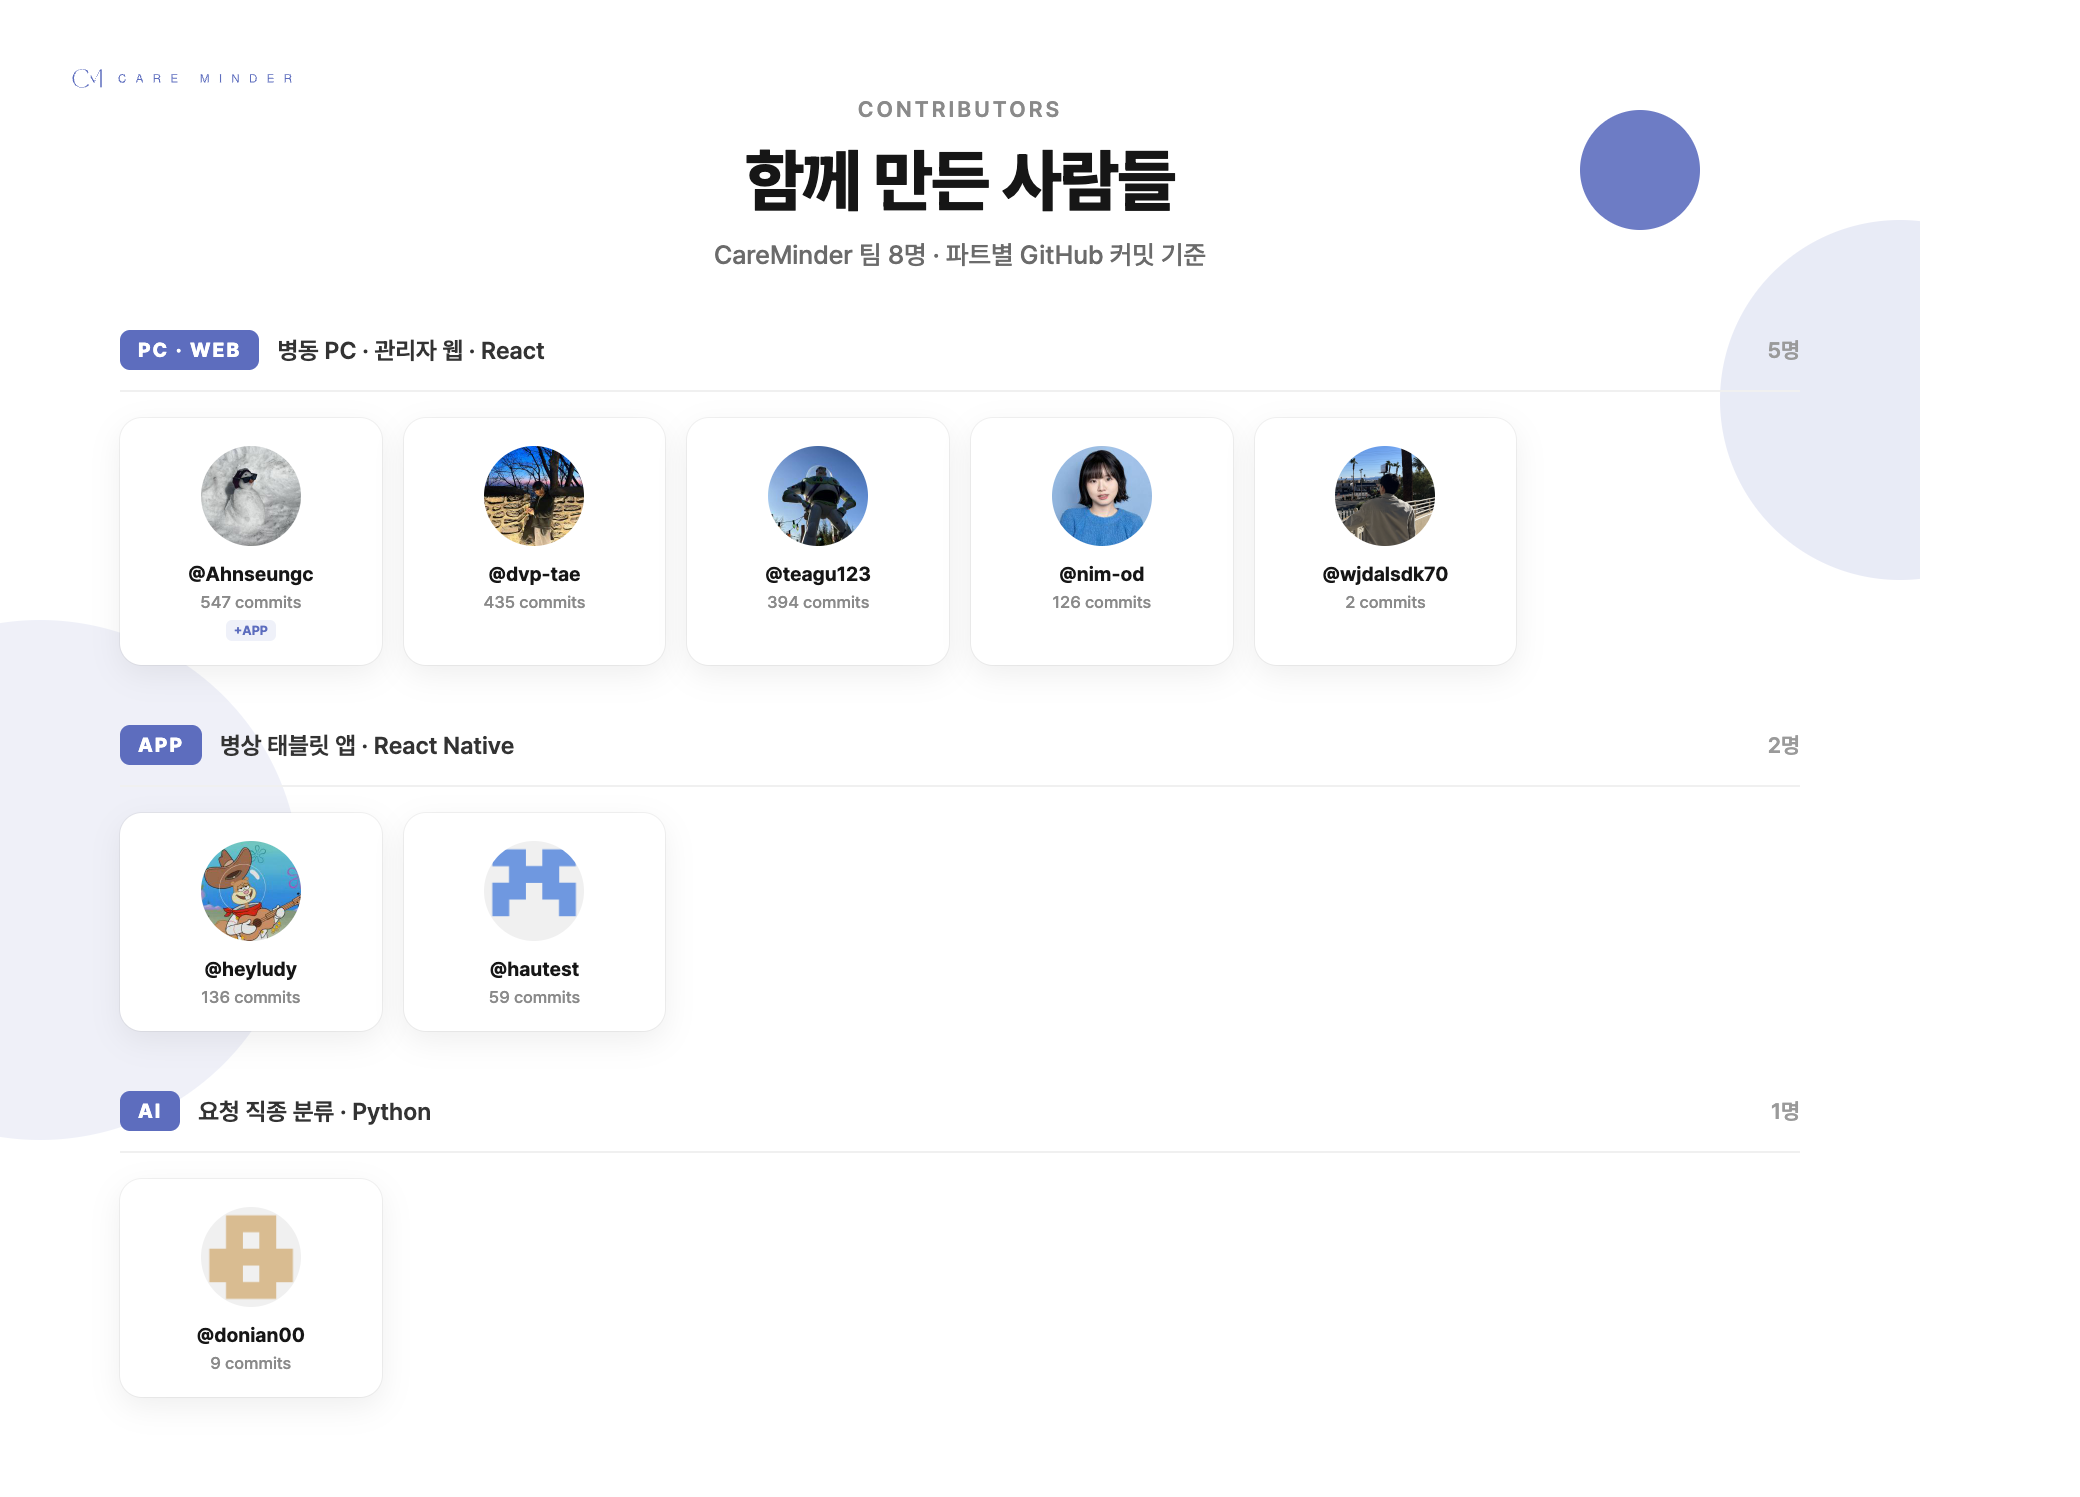
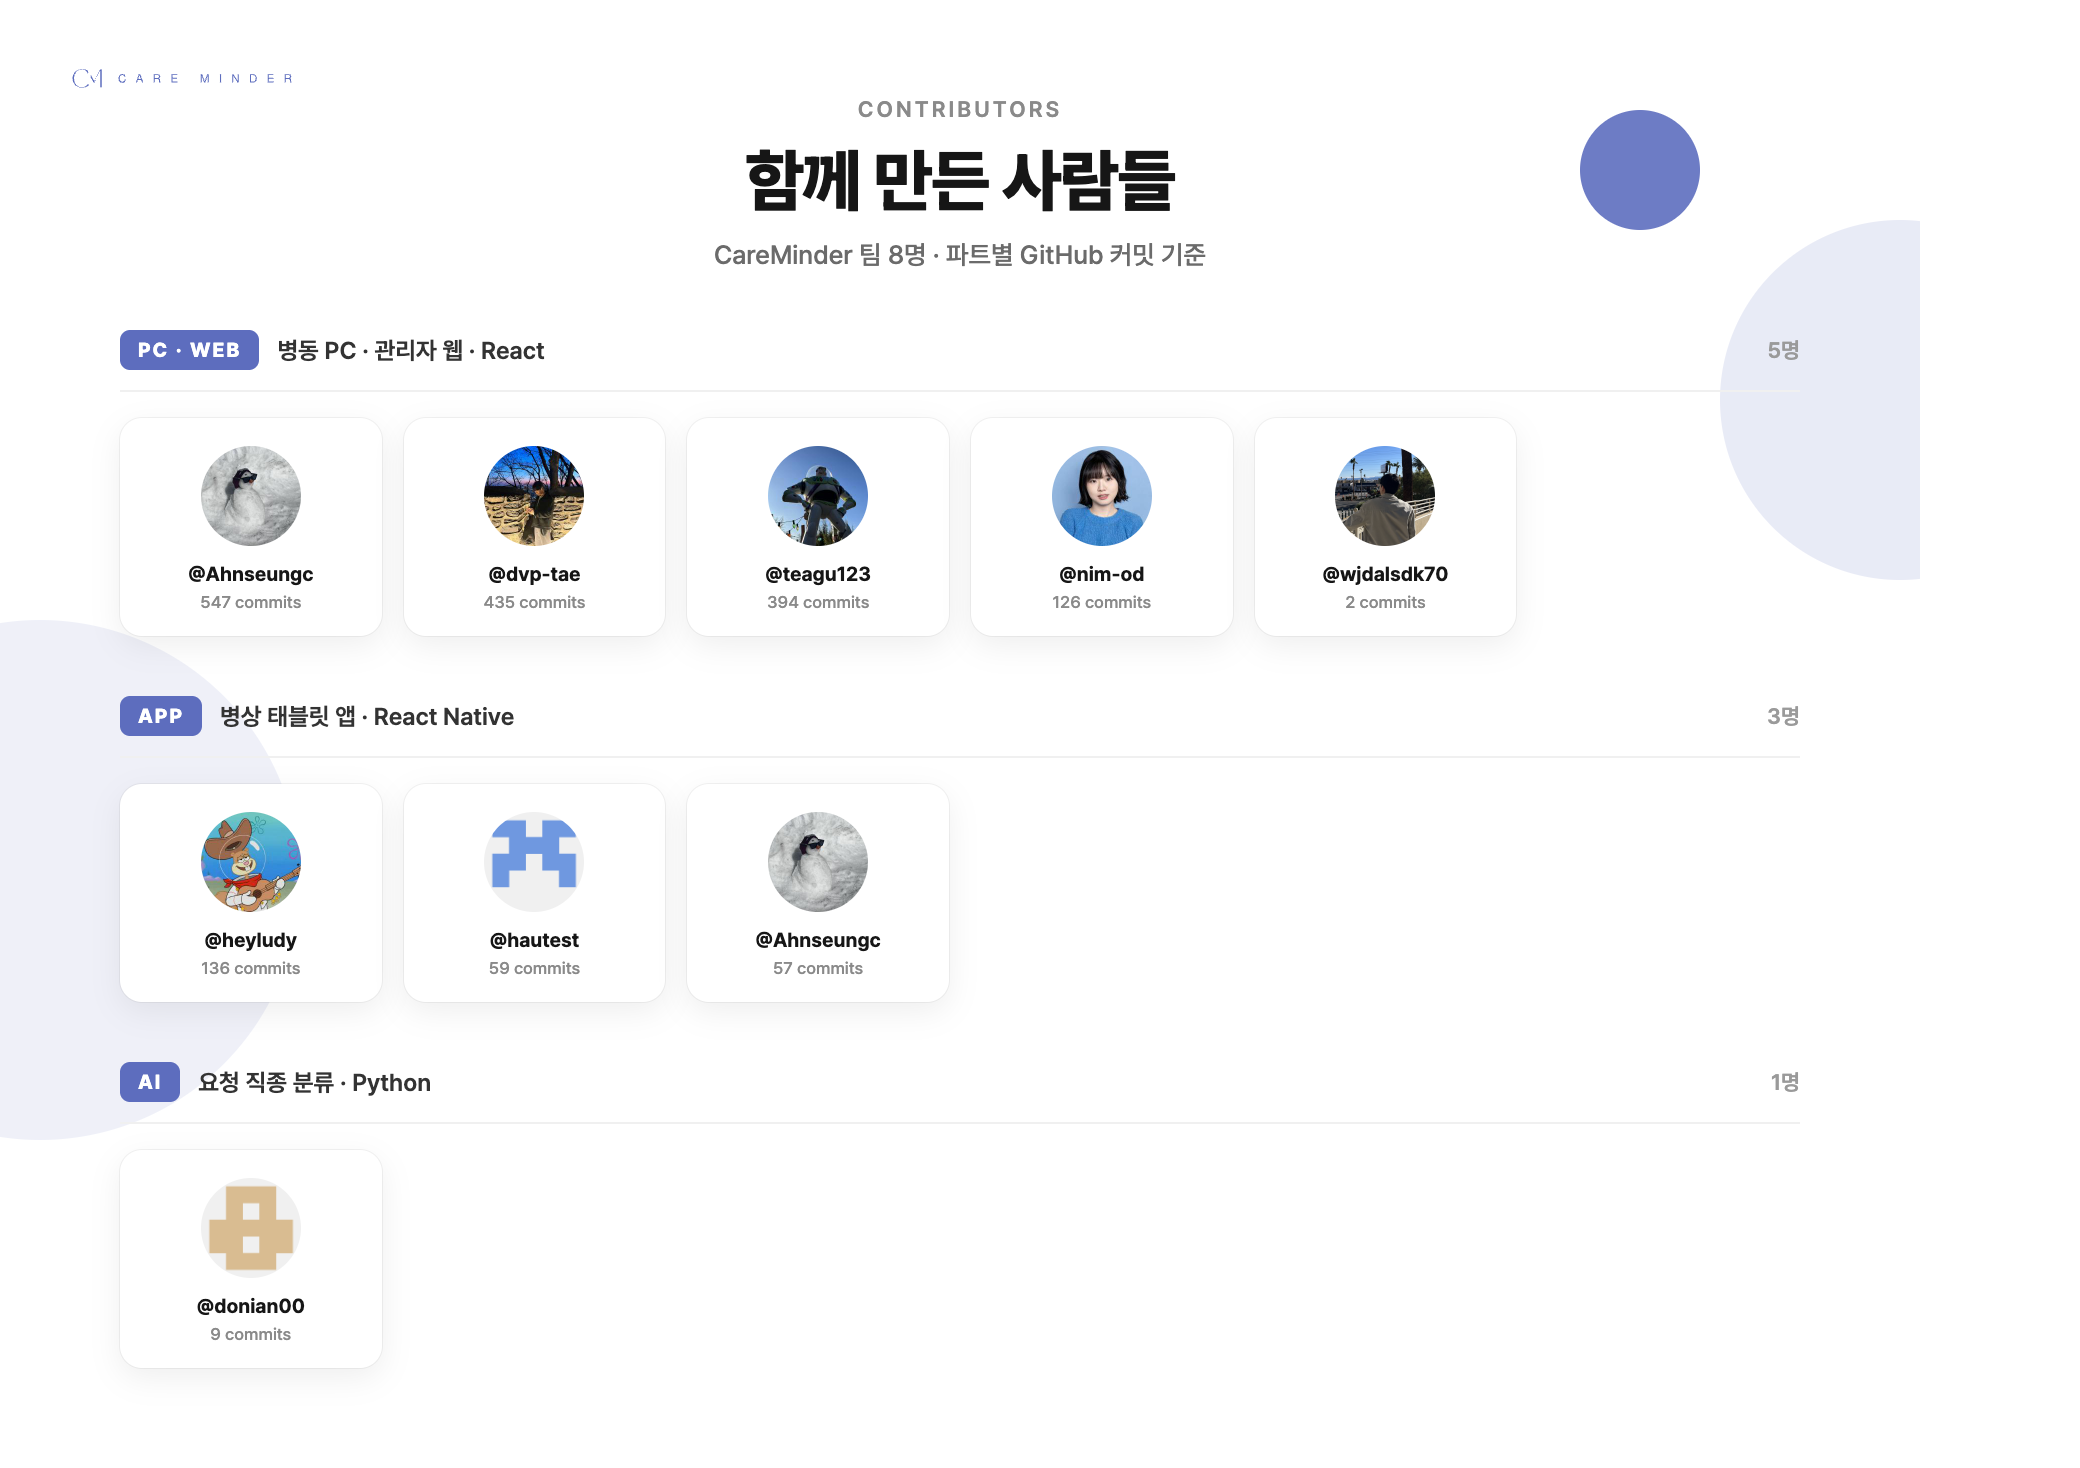
docs: README 소제목 제거·이미지 연속 배치, 팀 이미지에 APP 파트 반영

diff --git a/README.md b/README.md
@@ -20,19 +20,4 @@ CareMinder-Basic 팀 프로젝트 · 2024.06 ~ 2025.03
 
 </div>
 
-<img src="docs/images/00-showcase.png" alt="CareMinder PC 화면" />
-
-## 기술 스택
-
-<img src="docs/images/01-tech-stack.png" alt="기술 스택" />
-
-## 기술 구조
-
-<img src="docs/images/02-roles.png" alt="역할별 화면과 권한" />
-<img src="docs/images/03-realtime.png" alt="환자 요청 실시간 흐름" />
-<img src="docs/images/04-architecture.png" alt="폴더 구조" />
-<img src="docs/images/05-build-deploy.png" alt="웹과 데스크톱 배포" />
-
-## 함께 만든 사람들
-
-<img src="docs/images/06-contributors.png" alt="Contributors" />
+<p><img src="docs/images/00-showcase.png" width="100%" alt="CareMinder PC 화면" /><img src="docs/images/01-tech-stack.png" width="100%" alt="기술 스택" /><img src="docs/images/02-roles.png" width="100%" alt="역할별 화면과 권한" /><img src="docs/images/03-realtime.png" width="100%" alt="환자 요청 실시간 흐름" /><img src="docs/images/04-architecture.png" width="100%" alt="폴더 구조" /><img src="docs/images/05-build-deploy.png" width="100%" alt="웹과 데스크톱 배포" /><img src="docs/images/06-contributors.png" width="100%" alt="함께 만든 사람들" /></p>
